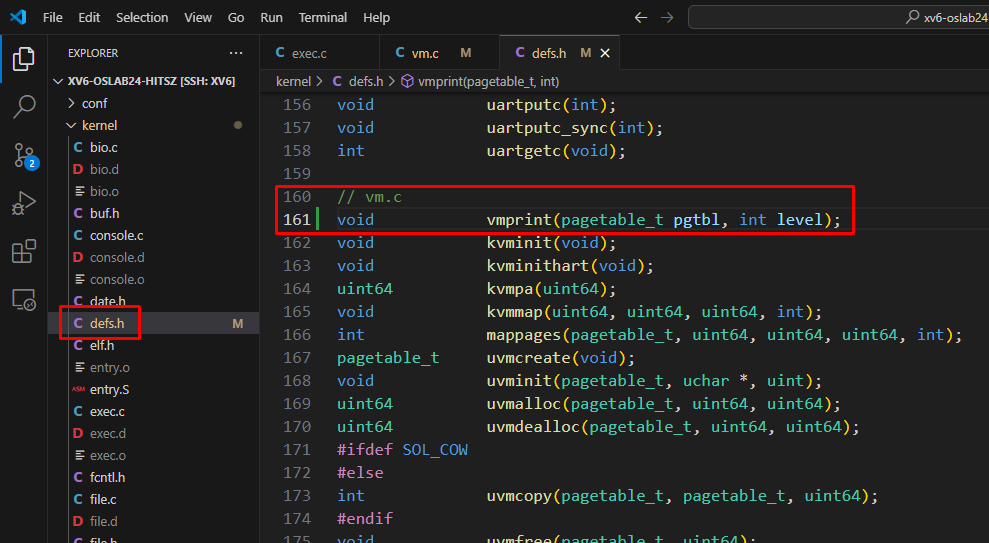
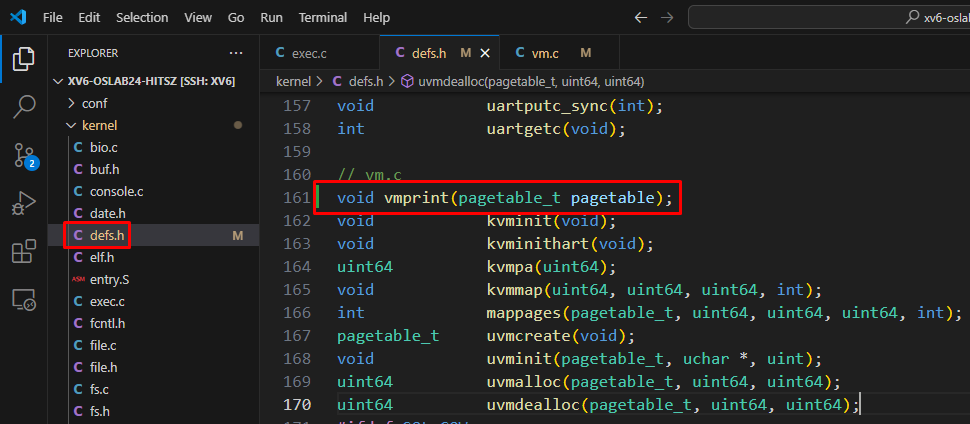
update Task01

diff --git a/Chapter06/Task01.md b/Chapter06/Task01.md
@@ -12,7 +12,7 @@
 
 
 
-```
+```c
 内核中页表的实现主要在代码 kernel/vm.c 文件中
 对照上面的分页原理，仔细阅读代码
 
@@ -38,13 +38,13 @@ void freewalk(pagetable_t pagetable)
 
    
 
-   [点击这里--查看代码修改](https://github.com/hitsz-ids/OS-Kernel-system-software-tutorial/commit/6d10111426ea50b276734cf0e710c787595e5ae8)
+   [点击这里--查看代码修改](https://github.com/hitsz-ids/OS-Kernel-system-software-tutorial/commit/c44802d2e85b0df4354e0ec666b08363cdf55c21)
 
    
 
-   ```
+   ```c
    // 定义我们自己的 vmprint 方法
-   void vmprint(pagetable_t pgtbl, int level){
+   void vmprint(pagetable_t pagetable){
      printf("This is my vmprint,HaHaHa\n");
    }
    ```
@@ -59,15 +59,15 @@ void freewalk(pagetable_t pagetable)
 
    
 
-   [点击这里--查看代码修改](https://github.com/hitsz-ids/OS-Kernel-system-software-tutorial/commit/5a8cd18c18acd2942cd851094783bb119a324e38)
+   [点击这里--查看代码修改](https://github.com/hitsz-ids/OS-Kernel-system-software-tutorial/commit/7a77972a851d6fe57edcd9bd31875e5964968fe4)
 
    
 
    我们的 vmprint 要被别的程序调用，必须把函数的定义加入到 defs.h 文件中，否则别的程序无法调用我们
 
-   ```
+   ```c
    // vm.c
-   void            vmprint(pagetable_t pgtbl, int level);
+   void vmprint(pagetable_t pagetable);
    ```
 
    ![](Task01_03.png)
@@ -78,15 +78,14 @@ void freewalk(pagetable_t pagetable)
 
    
 
-   [点击这里--查看代码修改](https://github.com/hitsz-ids/OS-Kernel-system-software-tutorial/commit/1a9be05cafbaae0c758a27a9a204c1785a6cf22c)
+   [点击这里--查看代码修改](https://github.com/hitsz-ids/OS-Kernel-system-software-tutorial/commit/15ac1e7250adc4acfa546dd0b62d6c340d5a7aff)
 
    
 
-   ```
+   ```c
      // 调用vmprint，打印第一个进程的页表
      if (1 == p->pid){
-       // 页表一共3级，2 代表根页表，1是一级页表，0是叶子页表
-       vmprint(p->pagetable, 2);
+       vmprint(p->pagetable);
      }
    ```
 
@@ -102,4 +101,96 @@ void freewalk(pagetable_t pagetable)
    ```
 
    ![](Task01_05.png)
+
+
+
+## 三、页表的三级结构
+
+
+
+你需要对三级页表的结构非常熟悉才能实现页表打印，下面是原理，请仔细看懂它
+
+
+
+[点击这里：分页原理](https://os-labs.pages.dev/lab4/part2/)
+
+
+
+虚拟地址分为三级，对应三级页表（L2, L1, L0），确定你真的看懂了下面这张图的含义。看懂了这张图，你就可以实现页表打印功能了。
+
+
+
+![](Task01_06.png)
+
+
+
+## 四、实现页表结构打印
+
+	
+
+```
+我们参考 kernel/vm.c 文件中 freewalk 来实现
+
+void freewalk(pagetable_t pagetable)
+```
+
+
+
+1. ### 实现地址的打印
+
+
+
+[点击这里--查看代码修改](https://github.com/hitsz-ids/OS-Kernel-system-software-tutorial/commit/1fec8fa7ff395b46233e8fd3fc1c19b29fd90ca4)
+
+
+
+	物理地址是比较长的整数，我们需要按16进制的方式打印出来
+
+```c
+// 把地址用 16 进制打印出来
+static void print_addr(uint64 x) {
+  static char digits[] = "0123456789abcdef";
+  char buf[16];
+  int base = 16;
+  int i;
+  // 把 buf 全写上 '0'
+  for(i=0; i<16;i++){
+    buf[i] = '0';
+  }
+  // 转为16进制显示
+  i = 15;
+  do {
+    buf[i] = digits[x % base];
+  } while (--i>=0 && (x /= base) != 0);
+  // 打印16位地址
+  consputc('0');
+  consputc('x');
+  for(i=0; i<16;i++){
+    consputc(buf[i]);
+  }
+}
+
+// 打印页表结构
+void vmprint(pagetable_t pagetable){
+  printf("page table ");
+  print_addr((uint64)pagetable);
+  printf("\n"); 
+}
+```
+
+![](Task01_07.png)
+
+
+
+2. ### 实现页表的递归打印
+
+	三级页表，我们采用递归的方式来打印。
+
+
+
+
+
+
+
+
 
